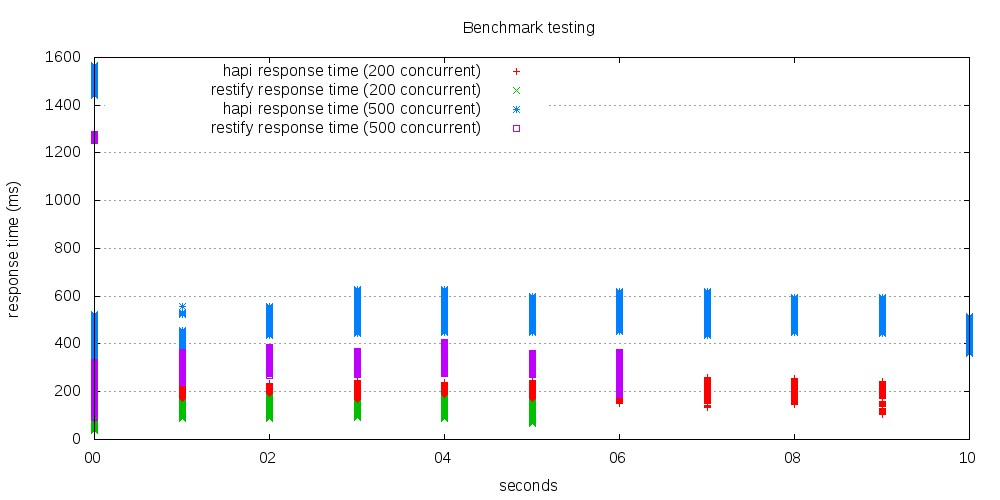
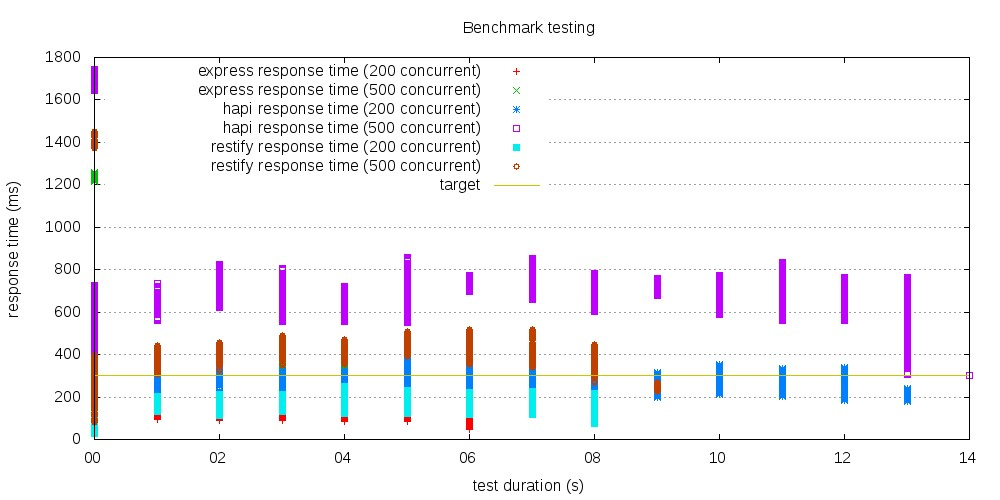
feat(perf): separate perf tests from running

diff --git a/README.md b/README.md
@@ -3,14 +3,18 @@ api-tests
 
 Benchmarks for the API Backends
 
-To run the tests you need gnuplot, awk, ab.  Also port 8081 needs to be open.
+To run the tests you need gnuplot, awk, ab.  Whichever service you are testing needs to be running (see Docker#Run below)
 
 ```
 cd analysis
-./test.sh
+./test.sh express 8082
+./test.sh hapi 8083
+./test.sh restify 8084
 ```
 
-./timeseries.png will be generated along with a number of log and summary files in the CWD
+After each run ./timeseries.png will be generated/updated along with a number of log and summary files in the CWD
+
+To clear this out `rm .plot.data-*`
 
 == Docker ==
 
